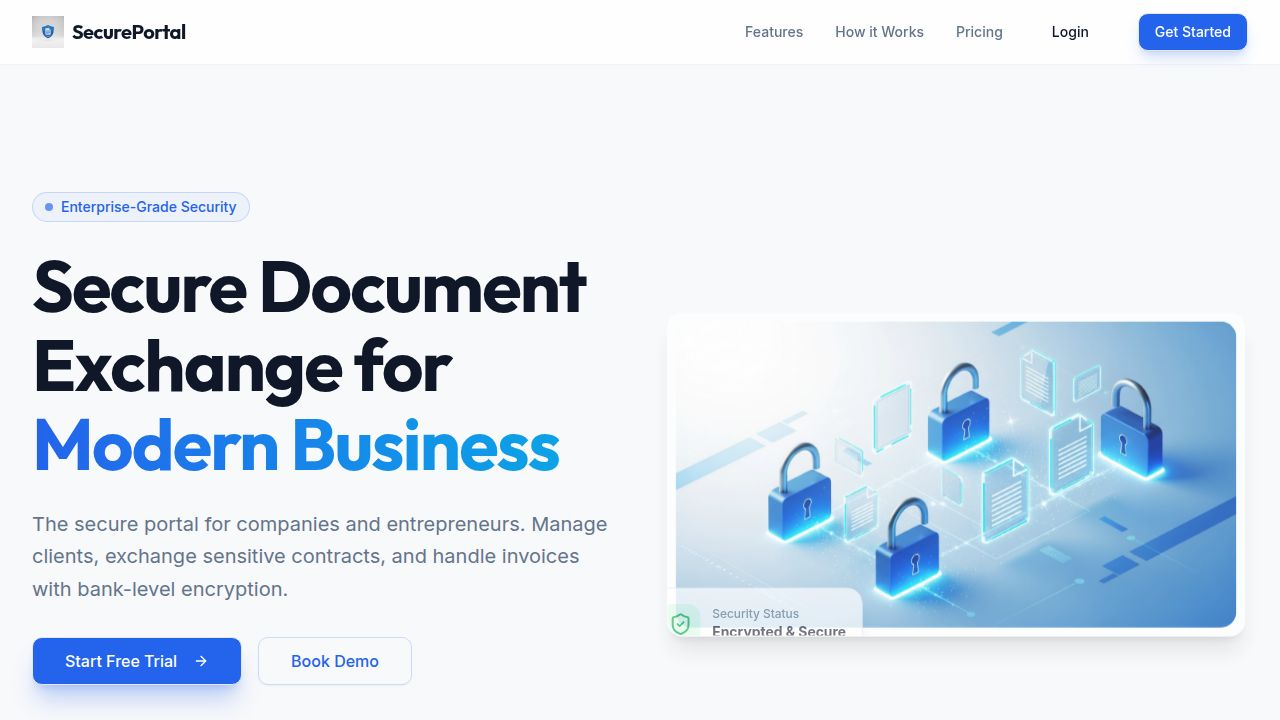
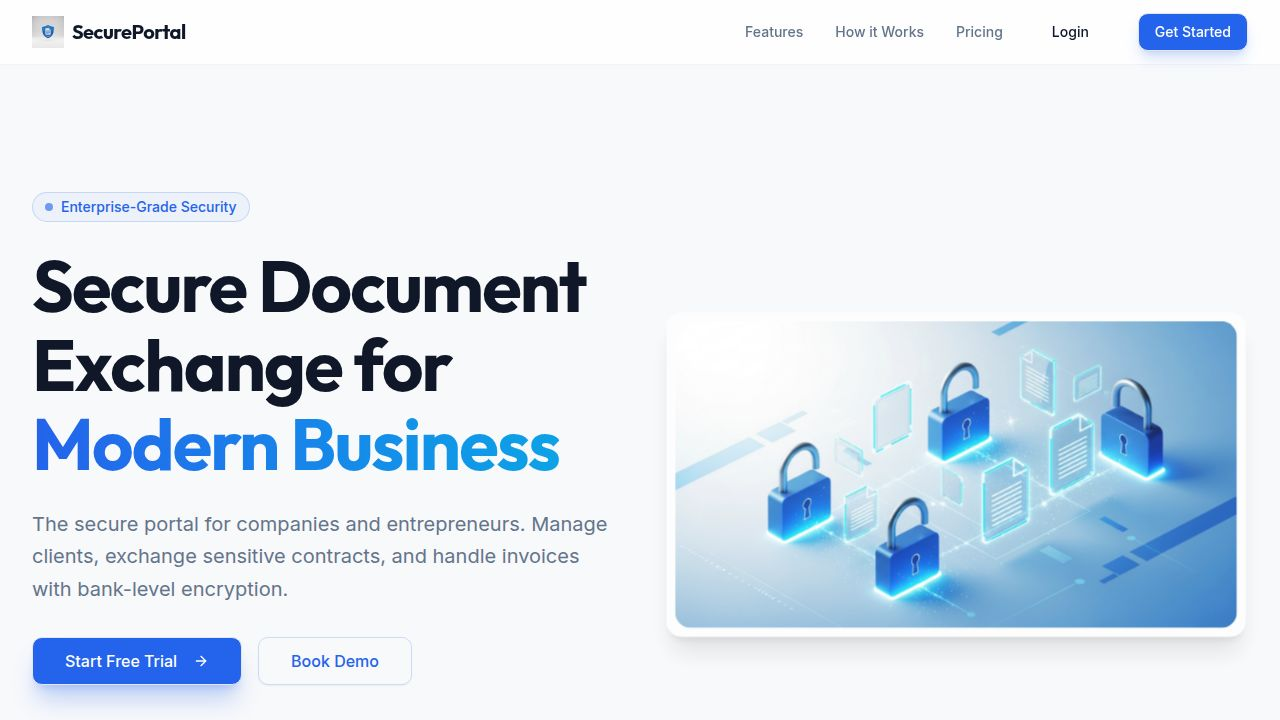
Remove "Encrypted & Secure" badge from hero image
Remove the "Encrypted & Secure" floating element from the hero section in the landing page component.

Replit-Commit-Author: Agent
Replit-Commit-Session-Id: f1b0b65d-9fcf-46ce-bcb9-52487cbb53c5
Replit-Commit-Checkpoint-Type: full_checkpoint
Replit-Commit-Event-Id: 95ab0a79-3f1e-45eb-bacf-b8da54b39c94
Replit-Commit-Screenshot-Url: https://storage.googleapis.com/screenshot-production-us-central1/72c63e0b-1cad-4594-ae32-9a78c36711b6/f1b0b65d-9fcf-46ce-bcb9-52487cbb53c5/22NZH8b
Replit-Helium-Checkpoint-Created: true

Changed region(s): [[0.5, 0.7944, 0.6875, 0.8861]]

diff --git a/client/src/pages/landing-page.tsx b/client/src/pages/landing-page.tsx
@@ -142,21 +142,6 @@ export default function LandingPage() {
                   className="rounded-xl w-full h-auto object-cover transform hover:scale-[1.02] transition-transform duration-700"
                 />
                 
-                {/* Floating Elements */}
-                <motion.div 
-                  initial={{ y: 20, opacity: 0 }}
-                  animate={{ y: 0, opacity: 1 }}
-                  transition={{ delay: 0.6 }}
-                  className="absolute -bottom-6 -left-6 bg-white p-4 rounded-xl shadow-xl border border-border flex items-center gap-3 animate-bounce-slow"
-                >
-                  <div className="bg-green-100 p-2 rounded-lg text-green-600">
-                    <ShieldCheck size={24} />
-                  </div>
-                  <div>
-                    <p className="text-xs text-muted-foreground font-medium">Security Status</p>
-                    <p className="text-sm font-bold text-foreground">Encrypted & Secure</p>
-                  </div>
-                </motion.div>
               </div>
             </motion.div>
           </div>
